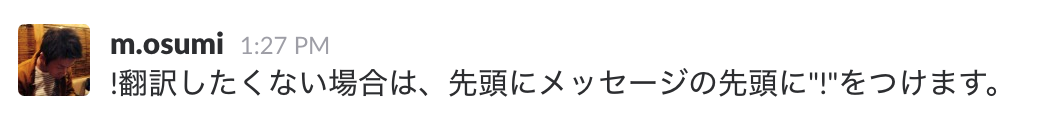
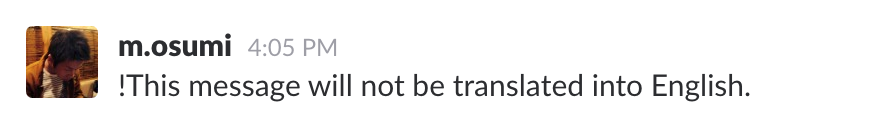
Update README

Changed region(s): [[0.0, 0.1935, 0.9621, 0.7742]]

diff --git a/README.md b/README.md
@@ -1,8 +1,20 @@
 # Translation Bot
 
-A Slack bot to translate Japanese messages into English by using Google Cloud Translation API
+A Slack bot to translate messages between English and Japanese by using Google Cloud Translation API. 
+This bot that [takram-design-engineering/translation-bot](https://github.com/takram-design-engineering/translation-bot) based.
+
+It translate into English if you post Japanese messages.
+You can also include emoji.
 
 ![Screenshot](https://i.gyazo.com/6af2609ced8b1788deb75ef4f5d5c088.png)
+
+It translate into Japanese if you post English messages.
+
+<img src="https://github.com//masaki-ohsumi/translation-bot/blob/master/.doc/image1.png?raw=true" width="548">
+
+If you want not to translate messages, Add exclamation top of messages.
+
+<img src="https://github.com//masaki-ohsumi/translation-bot/blob/master/.doc/image2.png?raw=true" width="548">
 
 ## Requirements
 
